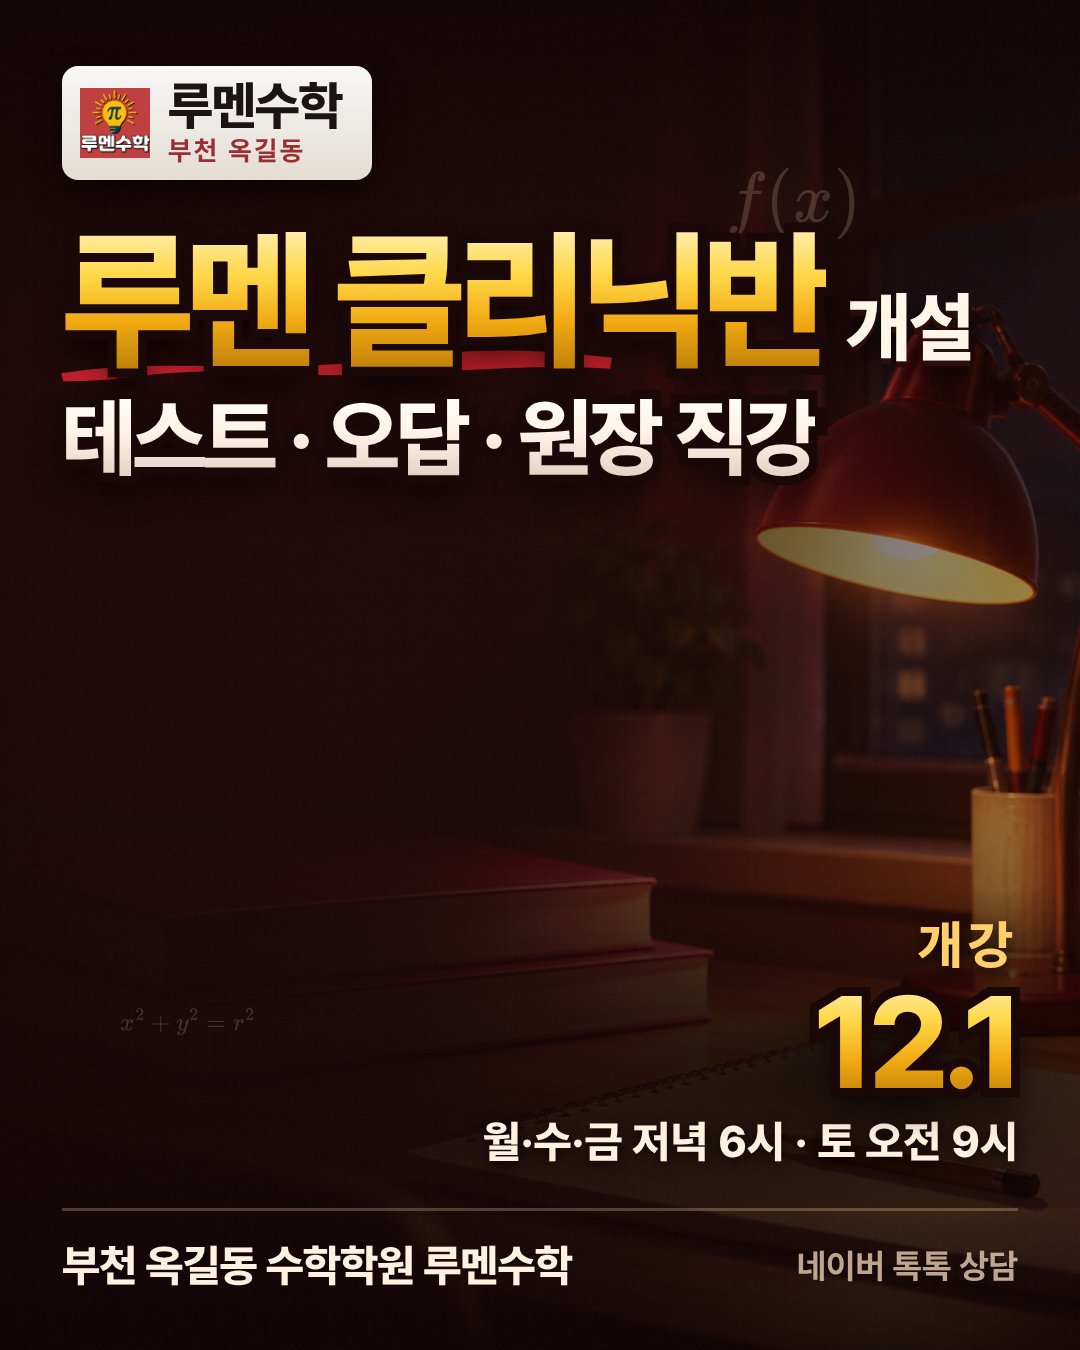
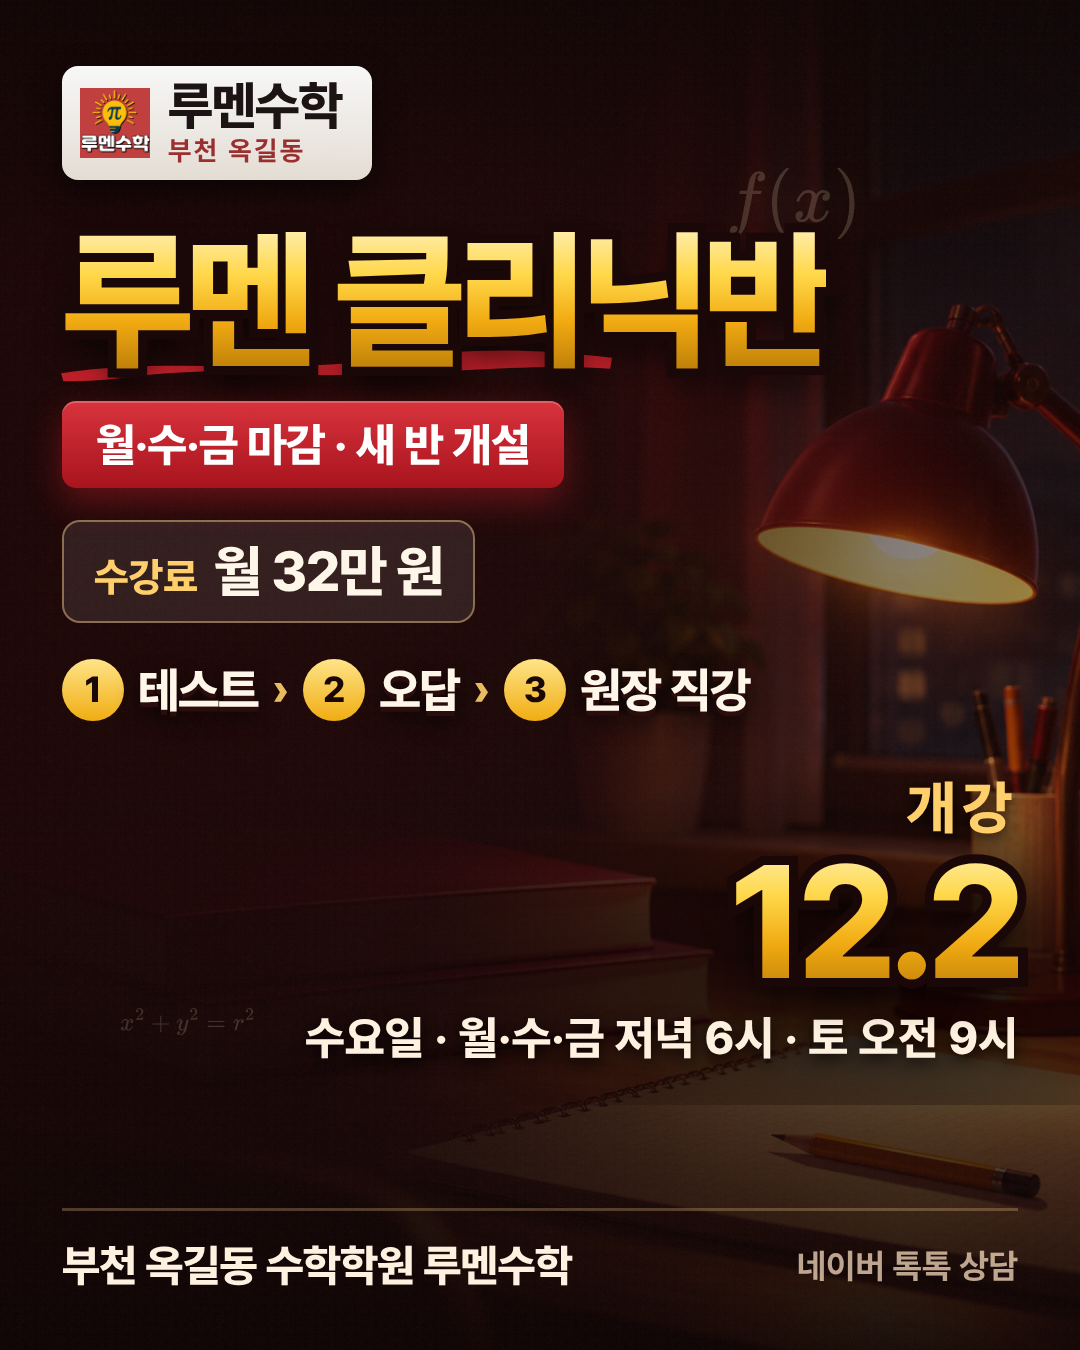
클리닉반 — 개강 12.2, 「월·수·금 마감 · 새 반 개설」, 카드 강화
원장 지시: 개강 12월 2일, 마감·신설 문구, 카드가 약하다.

표지 생성기에 세 가지를 더했다 (hero.json 으로 글마다 쓴다)
- badge : 붉은 띠 한 마디 (마감·신설 같은 것)
- note  : 테두리 칩 (수강료 등)
- steps : 번호 붙은 흐름 (테스트 › 오답 › 원장 직강)
- 개강 숫자 130 → 160px, 글 덩어리를 위로 모으고 아래는 사진이 보이게

⚠ 「월·수·금 마감」은 실제로 마감일 때만 쓴다. 아니면 hero.json 의
   badge 를 비우고 본문 두 번째 줄도 지운다. hero.json 에 적어 뒀다.

Claude-Session: https://claude.ai/code/session_01PrXupwdfA18FioDhn8FuNf

diff --git a/blog/2026-11-28-clinic-class/cards/01_hero.html b/blog/2026-11-28-clinic-class/cards/01_hero.html
@@ -8,7 +8,7 @@
 html,body{width:1080px;height:1350px;overflow:hidden}
 body{font-family:'Pretendard',sans-serif;background:#140707;-webkit-font-smoothing:antialiased}
 .w{position:absolute;inset:0;overflow:hidden}
-.ph{position:absolute;inset:0;background:url('file:///home/user/lumen-math/blog/2026-11-28-clinic-class/bg_01_desk_night.png') center/cover no-repeat;filter:brightness(.80) saturate(1.05)}
+.ph{position:absolute;inset:0;background:url('file:///home/user/lumen-math/blog/2026-11-28-clinic-class/bg_01_desk_night.png') center 22%/cover no-repeat;filter:brightness(.80) saturate(1.05)}
 .scrimL{position:absolute;inset:0;background:linear-gradient(104deg,rgba(26,6,6,.95) 0%,rgba(28,8,8,.86) 46%,rgba(28,8,8,.40) 72%,rgba(28,8,8,.14) 100%)}
 .scrimB{position:absolute;left:0;right:0;bottom:0;height:560px;background:linear-gradient(180deg,transparent,rgba(14,4,4,.92))}
 .scrimT{position:absolute;left:0;right:0;top:0;height:320px;background:linear-gradient(180deg,rgba(14,4,4,.80),transparent)}
@@ -48,18 +48,37 @@ body{font-family:'Pretendard',sans-serif;background:#140707;-webkit-font-smoothi
 .what{margin-top:16px;position:relative;z-index:2;display:flex;flex-direction:column;gap:8px}
 .wl{font-size:86px;line-height:1.1}
 
+/* 3-1. 붉은 띠 — 마감·신설 같은 한 마디 */
+.badge{align-self:flex-start;margin-top:26px;position:relative;z-index:3;
+ background:linear-gradient(180deg,#d8333d,#a8141d);color:#fff;font-weight:800;font-size:46px;
+ letter-spacing:-.02em;padding:16px 34px;border-radius:14px;
+ box-shadow:0 14px 34px rgba(190,30,40,.44), inset 0 2px 0 rgba(255,255,255,.22)}
+
+/* 3-2. 수업 흐름 */
+.note{margin-top:32px;align-self:flex-start;position:relative;z-index:3;display:flex;align-items:baseline;gap:16px;
+ background:rgba(255,255,255,.09);border:2.5px solid rgba(255,214,150,.44);border-radius:18px;padding:16px 30px}
+.note i{font-style:normal;font-weight:800;font-size:40px;color:#ffcf6b}
+.note b{font-weight:800;font-size:56px;color:#fff6ea;letter-spacing:-.03em}
+.steps{margin-top:36px;position:relative;z-index:3;display:flex;align-items:center;gap:14px;flex-wrap:wrap}
+.step{display:flex;align-items:center;gap:14px}
+.step b{width:62px;height:62px;border-radius:50%;display:flex;align-items:center;justify-content:center;
+ background:linear-gradient(180deg,#ffe488,#f0ad12);color:#1a0707;font-weight:800;font-size:36px}
+.step span{font-weight:800;font-size:48px;color:#fff6ea;letter-spacing:-.03em;
+ text-shadow:0 5px 0 #2b0d0d,0 10px 22px rgba(0,0,0,.8)}
+.arw{font-weight:800;font-size:44px;color:#ffcf6b;opacity:.9}
+
 /* 4. 개강일 — 오른쪽, 크게 */
-.date{margin-top:auto;position:relative;z-index:3;align-self:flex-end;text-align:right}
+.date{margin-top:52px;position:relative;z-index:3;align-self:flex-end;text-align:right}
 .date:before{content:"";position:absolute;right:-70px;bottom:-40px;width:760px;height:330px;
  background:radial-gradient(ellipse at 72% 60%,rgba(14,4,4,.88),transparent 70%);z-index:-1}
-.date .lab{font-weight:800;font-size:52px;letter-spacing:.10em;color:#ffcf6b;text-shadow:0 4px 16px rgba(0,0,0,.9)}
+.date .lab{font-weight:800;font-size:58px;letter-spacing:.10em;color:#ffcf6b;text-shadow:0 4px 16px rgba(0,0,0,.9)}
 .date .row{display:flex;align-items:baseline;justify-content:flex-end;gap:18px;margin-top:2px}
-.dnum{font-size:130px;line-height:.98;letter-spacing:-.05em}
+.dnum{font-size:160px;line-height:.98;letter-spacing:-.05em}
 .dash{font-weight:800;font-size:92px;color:#ffcf6b;text-shadow:0 5px 0 #2b0d0d,0 10px 22px rgba(0,0,0,.85)}
-.dtail{margin-top:10px;font-weight:800;font-size:44px;color:#fff1e0;text-shadow:0 4px 16px rgba(0,0,0,.9)}
+.dtail{margin-top:10px;font-weight:800;font-size:46px;color:#fff1e0;text-shadow:0 4px 16px rgba(0,0,0,.9)}
 
 /* 5. 꼬리말 */
-.foot{margin-top:40px;position:relative;z-index:3;display:flex;align-items:center;justify-content:space-between;
+.foot{margin-top:auto;position:relative;z-index:3;display:flex;align-items:center;justify-content:space-between;
  border-top:3px solid rgba(255,214,150,.26);padding-top:28px}
 .fl{font-weight:800;font-size:44px;color:#fff1e0;letter-spacing:-.02em}
 .fr{font-weight:700;font-size:34px;color:rgba(255,226,196,.72)}
@@ -70,14 +89,20 @@ body{font-family:'Pretendard',sans-serif;background:#140707;-webkit-font-smoothi
  <div class="lock"><img src="file:///home/user/lumen-math/assets/logo.png"><div><b>루멘수학</b><i>부천 옥길동</i></div></div>
 
  <div class="who"><svg class="brush" viewBox="0 0 560 34" preserveAspectRatio="none"><path d="M5 21 C104 7,216 27,320 15 S484 8,556 18 L554 29 C460 19,344 36,218 26 S76 32,7 29 Z" fill="#c0202a"/></svg>
-  <div class="whoRow"><span class="t3d gd big"><span class="b">루멘 클리닉반</span><span class="f">루멘 클리닉반</span></span><span class="season">개설</span></div>
+  <div class="whoRow"><span class="t3d gd big"><span class="b">루멘 클리닉반</span><span class="f">루멘 클리닉반</span></span></div>
  </div>
 
- <div class="what"><span class="t3d wh wl"><span class="b">테스트 · 오답 · 원장 직강</span><span class="f">테스트 · 오답 · 원장 직강</span></span></div>
+ 
+
+ <div class="badge">월·수·금 마감 · 새 반 개설</div>
+
+ <div class="note"><i>수강료</i><b>월 32만 원</b></div>
+
+ <div class="steps"><div class="step"><b>1</b><span>테스트</span></div><span class="arw">›</span><div class="step"><b>2</b><span>오답</span></div><span class="arw">›</span><div class="step"><b>3</b><span>원장 직강</span></div></div>
 
  <div class="date"><div class="lab">개강</div>
-  <div class="row"><span class="t3d gd dnum"><span class="b">12.1</span><span class="f">12.1</span></span></div>
-  <div class="dtail">월·수·금 저녁 6시 · 토 오전 9시</div>
+  <div class="row"><span class="t3d gd dnum"><span class="b">12.2</span><span class="f">12.2</span></span></div>
+  <div class="dtail">수요일 · 월·수·금 저녁 6시 · 토 오전 9시</div>
  </div>
 
  <div class="foot"><div class="fl">부천 옥길동 수학학원 루멘수학</div><div class="fr">네이버 톡톡 상담</div></div>

diff --git a/sync/card_hero_preview.js b/sync/card_hero_preview.js
@@ -37,6 +37,7 @@ const D=Object.assign({
   line:'공통수학1·2 완성',
   dateLab:'수업 기간', dates:['11.19','2.26'], dateTail:'11월 19일 목요일 개강',
   footL:'부천 옥길동 수학학원 루멘수학', footR:'네이버 톡톡 상담',
+  badge:'', steps:[], bgPos:'center', note:'',
 }, fs.existsSync(path.join(dir,'hero.json')) ? JSON.parse(fs.readFileSync(path.join(dir,'hero.json'),'utf8')) : {});
 const BG='file://'+path.join(dir,D.bg);
 const esc=s=>String(s??'').replace(/&/g,'&amp;').replace(/</g,'&lt;');
@@ -49,7 +50,7 @@ ${FONT}
 html,body{width:1080px;height:1350px;overflow:hidden}
 body{font-family:'Pretendard',sans-serif;background:#140707;-webkit-font-smoothing:antialiased}
 .w{position:absolute;inset:0;overflow:hidden}
-.ph{position:absolute;inset:0;background:url('${BG}') center/cover no-repeat;filter:brightness(.80) saturate(1.05)}
+.ph{position:absolute;inset:0;background:url('${BG}') ${D.bgPos}/cover no-repeat;filter:brightness(.80) saturate(1.05)}
 .scrimL{position:absolute;inset:0;background:linear-gradient(104deg,rgba(26,6,6,.95) 0%,rgba(28,8,8,.86) 46%,rgba(28,8,8,.40) 72%,rgba(28,8,8,.14) 100%)}
 .scrimB{position:absolute;left:0;right:0;bottom:0;height:560px;background:linear-gradient(180deg,transparent,rgba(14,4,4,.92))}
 .scrimT{position:absolute;left:0;right:0;top:0;height:320px;background:linear-gradient(180deg,rgba(14,4,4,.80),transparent)}
@@ -89,18 +90,37 @@ body{font-family:'Pretendard',sans-serif;background:#140707;-webkit-font-smoothi
 .what{margin-top:16px;position:relative;z-index:2;display:flex;flex-direction:column;gap:8px}
 .wl{font-size:86px;line-height:1.1}
 
+/* 3-1. 붉은 띠 — 마감·신설 같은 한 마디 */
+.badge{align-self:flex-start;margin-top:26px;position:relative;z-index:3;
+ background:linear-gradient(180deg,#d8333d,#a8141d);color:#fff;font-weight:800;font-size:46px;
+ letter-spacing:-.02em;padding:16px 34px;border-radius:14px;
+ box-shadow:0 14px 34px rgba(190,30,40,.44), inset 0 2px 0 rgba(255,255,255,.22)}
+
+/* 3-2. 수업 흐름 */
+.note{margin-top:32px;align-self:flex-start;position:relative;z-index:3;display:flex;align-items:baseline;gap:16px;
+ background:rgba(255,255,255,.09);border:2.5px solid rgba(255,214,150,.44);border-radius:18px;padding:16px 30px}
+.note i{font-style:normal;font-weight:800;font-size:40px;color:#ffcf6b}
+.note b{font-weight:800;font-size:56px;color:#fff6ea;letter-spacing:-.03em}
+.steps{margin-top:36px;position:relative;z-index:3;display:flex;align-items:center;gap:14px;flex-wrap:wrap}
+.step{display:flex;align-items:center;gap:14px}
+.step b{width:62px;height:62px;border-radius:50%;display:flex;align-items:center;justify-content:center;
+ background:linear-gradient(180deg,#ffe488,#f0ad12);color:#1a0707;font-weight:800;font-size:36px}
+.step span{font-weight:800;font-size:48px;color:#fff6ea;letter-spacing:-.03em;
+ text-shadow:0 5px 0 #2b0d0d,0 10px 22px rgba(0,0,0,.8)}
+.arw{font-weight:800;font-size:44px;color:#ffcf6b;opacity:.9}
+
 /* 4. 개강일 — 오른쪽, 크게 */
-.date{margin-top:auto;position:relative;z-index:3;align-self:flex-end;text-align:right}
+.date{margin-top:52px;position:relative;z-index:3;align-self:flex-end;text-align:right}
 .date:before{content:"";position:absolute;right:-70px;bottom:-40px;width:760px;height:330px;
  background:radial-gradient(ellipse at 72% 60%,rgba(14,4,4,.88),transparent 70%);z-index:-1}
-.date .lab{font-weight:800;font-size:52px;letter-spacing:.10em;color:#ffcf6b;text-shadow:0 4px 16px rgba(0,0,0,.9)}
+.date .lab{font-weight:800;font-size:58px;letter-spacing:.10em;color:#ffcf6b;text-shadow:0 4px 16px rgba(0,0,0,.9)}
 .date .row{display:flex;align-items:baseline;justify-content:flex-end;gap:18px;margin-top:2px}
-.dnum{font-size:130px;line-height:.98;letter-spacing:-.05em}
+.dnum{font-size:160px;line-height:.98;letter-spacing:-.05em}
 .dash{font-weight:800;font-size:92px;color:#ffcf6b;text-shadow:0 5px 0 #2b0d0d,0 10px 22px rgba(0,0,0,.85)}
-.dtail{margin-top:10px;font-weight:800;font-size:44px;color:#fff1e0;text-shadow:0 4px 16px rgba(0,0,0,.9)}
+.dtail{margin-top:10px;font-weight:800;font-size:46px;color:#fff1e0;text-shadow:0 4px 16px rgba(0,0,0,.9)}
 
 /* 5. 꼬리말 */
-.foot{margin-top:40px;position:relative;z-index:3;display:flex;align-items:center;justify-content:space-between;
+.foot{margin-top:auto;position:relative;z-index:3;display:flex;align-items:center;justify-content:space-between;
  border-top:3px solid rgba(255,214,150,.26);padding-top:28px}
 .fl{font-weight:800;font-size:44px;color:#fff1e0;letter-spacing:-.02em}
 .fr{font-weight:700;font-size:34px;color:rgba(255,226,196,.72)}
@@ -115,6 +135,13 @@ body{font-family:'Pretendard',sans-serif;background:#140707;-webkit-font-smoothi
  </div>`).join('')}
 
  ${D.line?`<div class="what">${t3d('wh wl',D.line)}</div>`:''}
+
+ ${D.badge?`<div class="badge">${esc(D.badge)}</div>`:''}
+
+ ${D.note?`<div class="note"><i>${esc(D.note.lab||'')}</i><b>${esc(D.note.val||D.note)}</b></div>`:''}
+
+ ${D.steps&&D.steps.length?`<div class="steps">${D.steps.map((s,i)=>
+   `${i?'<span class="arw">›</span>':''}<div class="step"><b>${i+1}</b><span>${esc(s)}</span></div>`).join('')}</div>`:''}
 
  <div class="date"><div class="lab">${esc(D.dateLab)}</div>
   <div class="row">${D.dates.map(d=>t3d('gd dnum',d)).join('<span class="dash">—</span>')}</div>

diff --git a/blog/2026-11-28-clinic-class/post.md b/blog/2026-11-28-clinic-class/post.md
@@ -12,10 +12,13 @@ hashtags: #클리닉반 #옥길동수학학원 #부천옥길동수학학원 #관
 
 안녕하세요, 부천 옥길동 루멘수학 원장입니다.
 
-**루멘 클리닉반**을 새로 엽니다.
+**루멘 클리닉반**을 새로 엽니다. 12월 2일 수요일에 시작합니다.
+
+월·수·금 반이 찼습니다. 그래서 반을 하나 더 엽니다.
 
 ■ 클리닉반 안내
 
+**개강** — 12월 2일(수)
 **시간** — 월·수·금 18:00 ~ 19:30 · 토 09:00 ~ 10:30
 **흐름** — 테스트 15분 → 그날 바로 오답 정리 → 원장 직강
 **주간테스트** — 수요일
